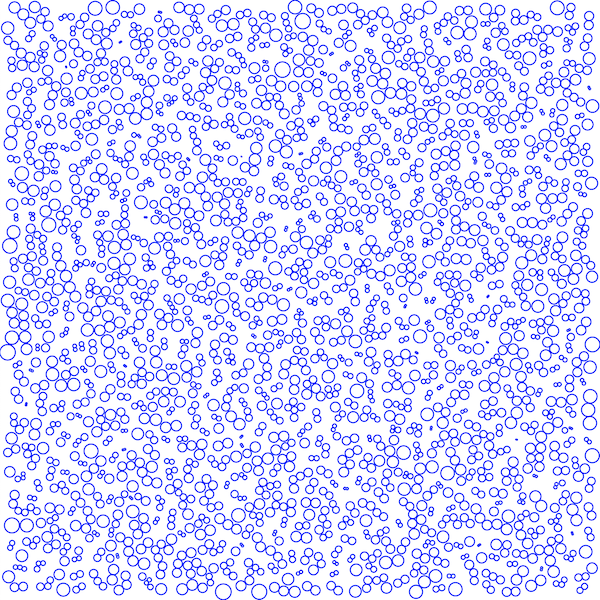
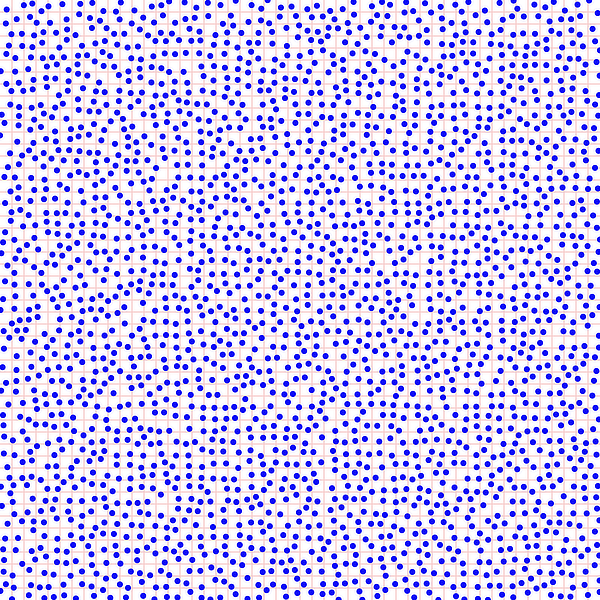
docs(poisson): update readme, image & example

diff --git a/packages/poisson/tpl.readme.md b/packages/poisson/tpl.readme.md
@@ -116,10 +116,11 @@ document.body.innerHTML = asSvg(
 
 ### Stratified grid sampling
 
-The `stratifiedGrid` function can produce nD grid samples based on the following config options:
+The `stratifiedGrid` function can produce 2D or 3D grid samples based on the
+following config options:
 
-- **dim**: nD vector defining grid size (in cells)
-- **samples?**: Number of samples per grid cell (default: 1)
+- **dim**: 2D/3D vector defining grid size (in cells)
+- **separation?**: Enforced minimum distance between samples (in [0 .. 0.99] range)
 - **rnd?**: Random number generator instance. Default:
   [@thi.ng/random](https://github.com/thi-ng/umbrella/tree/develop/packages/random)
   `SYSTEM` (aka Math.random)
@@ -127,27 +128,29 @@ The `stratifiedGrid` function can produce nD grid samples based on the following
 ![example output](https://raw.githubusercontent.com/thi-ng/umbrella/develop/assets/poisson/stratified-grid.png)
 
 ```ts
-import { asSvg, circle, svgDoc } from "@thi.ng/geom";
-import { KdTreeSet } from "@thi.ng/geom-accel";
-import { stratifiedGrid } from "@thi.ng/poisson";
-import { map } from "@thi.ng/transducers";
-import { dist } from "@thi.ng/vectors";
+import { asSvg, group, line, points, svgDoc } from "@thi.ng/geom";
+import { stratifiedGrid2 } from "@thi.ng/poisson";
+import { map, range } from "@thi.ng/transducers";
 
-const index = new KdTreeSet(2);
-index.into(stratifiedGrid({ dim: [50, 50], samples: 1 }));
+const W = 50;
 
 document.body.innerHTML = asSvg(
     svgDoc(
         {
             width: 600,
             height: 600,
-            fill: "none",
-            stroke: "blue",
-            "stroke-width": 0.1,
+            fill: "blue",
+            stroke: "none",
         },
-        ...map(
-            (p) => circle(p, dist(p, index.queryKeys(p, 2 * Math.SQRT2, 2)[1]) / 2),
-            index.keys()
+        // grid lines
+        group({ stroke: "#fcc", weight: 0.1 }, [
+            ...map((x) => line([x, 0], [x, W]), range(1, W)),
+            ...map((y) => line([0, y], [W, y]), range(1, W)),
+        ]),
+        // grid samples as point cloud
+        points(
+            [...stratifiedGrid2({ dim: [W, W], separation: 0.5 })],
+            { shape: "circle", size: 0.25 }
         )
     )
 );

diff --git a/packages/poisson/README.md b/packages/poisson/README.md
@@ -72,7 +72,7 @@ For Node.js REPL:
 const poisson = await import("@thi.ng/poisson");
 ```
 
-Package sizes (brotli'd, pre-treeshake): ESM: 449 bytes
+Package sizes (brotli'd, pre-treeshake): ESM: 682 bytes
 
 ## Dependencies
 
@@ -173,10 +173,11 @@ document.body.innerHTML = asSvg(
 
 ### Stratified grid sampling
 
-The `stratifiedGrid` function can produce nD grid samples based on the following config options:
+The `stratifiedGrid` function can produce 2D or 3D grid samples based on the
+following config options:
 
-- **dim**: nD vector defining grid size (in cells)
-- **samples?**: Number of samples per grid cell (default: 1)
+- **dim**: 2D/3D vector defining grid size (in cells)
+- **separation?**: Enforced minimum distance between samples (in [0 .. 0.99] range)
 - **rnd?**: Random number generator instance. Default:
   [@thi.ng/random](https://github.com/thi-ng/umbrella/tree/develop/packages/random)
   `SYSTEM` (aka Math.random)
@@ -184,28 +185,23 @@ The `stratifiedGrid` function can produce nD grid samples based on the following
 ![example output](https://raw.githubusercontent.com/thi-ng/umbrella/develop/assets/poisson/stratified-grid.png)
 
 ```ts
-import { asSvg, circle, svgDoc } from "@thi.ng/geom";
-import { KdTreeSet } from "@thi.ng/geom-accel";
-import { stratifiedGrid } from "@thi.ng/poisson";
-import { map } from "@thi.ng/transducers";
-import { dist } from "@thi.ng/vectors";
+import { asSvg, circle, group, line, svgDoc } from "@thi.ng/geom";
+import { stratifiedGrid2 } from "@thi.ng/poisson";
+import { map, range } from "@thi.ng/transducers";
 
-const index = new KdTreeSet(2);
-index.into(stratifiedGrid({ dim: [50, 50], samples: 1 }));
+const W = 50;
+
+const pts = stratifiedGrid2({ dim: [W, W], separation: 0.5 });
 
 document.body.innerHTML = asSvg(
     svgDoc(
         {
             width: 600,
             height: 600,
-            fill: "none",
-            stroke: "blue",
-            "stroke-width": 0.1,
+            fill: "blue",
+            stroke: "none",
         },
-        ...map(
-            (p) => circle(p, dist(p, index.queryKeys(p, 2 * Math.SQRT2, 2)[1]) / 2),
-            index.keys()
-        )
+        ...map((p) => circle(p, 0.25), pts)
     )
 );
 ```
